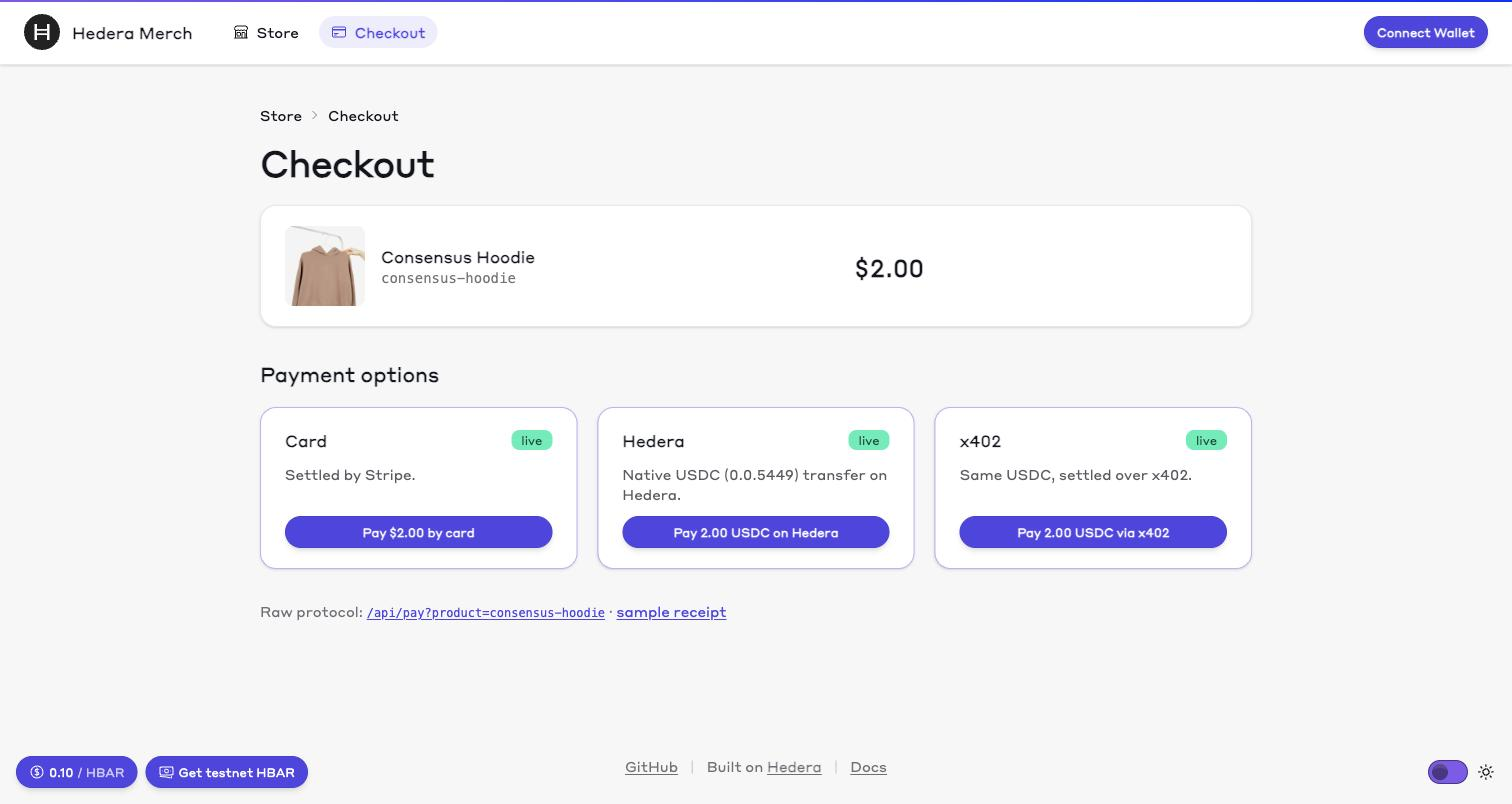
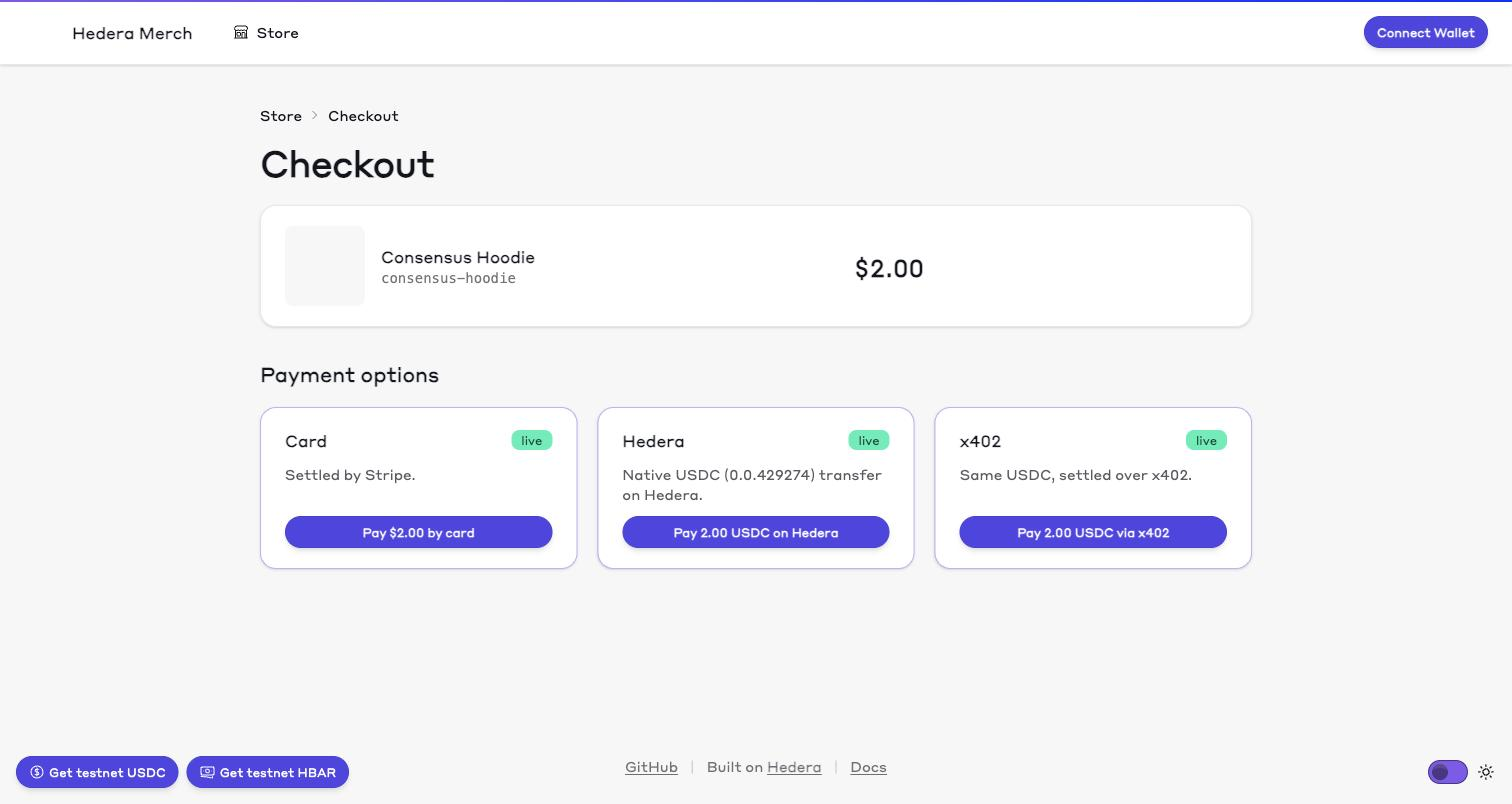
ui: checkout off the nav, USDC faucet in the footer, drop the protocol line
Three things a reader flagged, all of them the storefront talking to itself
rather than to a buyer.

Checkout was a nav entry next to Store. It is a step you reach from a product,
not a place to browse to — and visiting it directly lands you on whichever item
happens to be first in the catalogue, which is not a checkout anyone asked for.
Off the nav; the breadcrumb on /checkout is how you get back.

The footer advertised an HBAR spot price on a store that settles in USDC, with
the HBAR faucet as the only way to get funds. Replaced the price pill with a
"Get testnet USDC" link to Circle's faucet, which is where the token this store
charges in actually comes from. The Portal HBAR faucet stays next to it — HBAR
pays the transaction fees, so you need both.

Dropped "Raw protocol: /api/pay?product=… · sample receipt" from below the
payment cards. The endpoint is documented in the README and discoverable from
/openapi.json and /llms.txt; a buyer looking at three pay buttons does not need
a link to the wire format.

One trap avoided while doing it: the footer is a client component, and the
obvious way to put the token id in that tooltip is to import USDC_TOKEN_ID from
lib/mppx.ts — which is server-only and would have pulled the Hedera SDK and
Stripe into the browser bundle. The token id is also server config with no
NEXT_PUBLIC_ prefix, so the client cannot read it anyway. Tooltip says it
without naming the id.

Screenshots re-taken: both showed the old nav and the old footer.

diff --git a/packages/nextjs/components/Footer.tsx b/packages/nextjs/components/Footer.tsx
@@ -3,13 +3,12 @@ import { HederaPortalFaucet } from "@scaffold-hbar-ui/components";
 import { hedera } from "viem/chains";
 import { CurrencyDollarIcon } from "@heroicons/react/24/outline";
 import { SwitchTheme } from "~~/components/SwitchTheme";
-import { useFetchHbarPrice, useTargetNetwork } from "~~/hooks/scaffold-hbar";
+import { useTargetNetwork } from "~~/hooks/scaffold-hbar";
 
 /**
  * Site footer
  */
 export const Footer = () => {
-  const { price: nativeCurrencyPrice } = useFetchHbarPrice();
   const { targetNetwork } = useTargetNetwork();
   const isTestnet = targetNetwork.id !== hedera.id;
 
@@ -18,17 +17,23 @@ export const Footer = () => {
       <div>
         <div className="fixed flex justify-between items-center w-full z-10 p-4 bottom-0 left-0 pointer-events-none">
           <div className="flex flex-col md:flex-row gap-2 pointer-events-auto">
-            {nativeCurrencyPrice > 0 && (
-              <div>
-                {/* Labelled: an unexplained floating price pill reads as part of the checkout. */}
-                <div className="btn btn-primary btn-sm font-normal gap-1 cursor-auto" title="Current HBAR price in USD">
+            {isTestnet && (
+              <>
+                {/* The store settles in USDC, so the USDC faucet comes first. HBAR still pays
+                    the transaction fees, which is what the Portal faucet below is for. */}
+                <a
+                  href="https://faucet.circle.com"
+                  target="_blank"
+                  rel="noreferrer"
+                  className="btn btn-primary btn-sm font-normal gap-1"
+                  title="Circle's faucet — pick Hedera Testnet. Sends the USDC this store charges in."
+                >
                   <CurrencyDollarIcon className="h-4 w-4" />
-                  <span>{nativeCurrencyPrice.toFixed(2)}</span>
-                  <span className="opacity-70">/ HBAR</span>
-                </div>
-              </div>
+                  Get testnet USDC
+                </a>
+                <HederaPortalFaucet />
+              </>
             )}
-            {isTestnet && <HederaPortalFaucet />}
           </div>
           <SwitchTheme className="pointer-events-auto" />
         </div>

diff --git a/packages/nextjs/components/Header.tsx b/packages/nextjs/components/Header.tsx
@@ -4,7 +4,7 @@ import React, { useRef } from "react";
 import Image from "next/image";
 import Link from "next/link";
 import { usePathname } from "next/navigation";
-import { Bars3Icon, BuildingStorefrontIcon, CreditCardIcon } from "@heroicons/react/24/outline";
+import { Bars3Icon, BuildingStorefrontIcon } from "@heroicons/react/24/outline";
 import { WalletConnectButton } from "~~/components/scaffold-hbar";
 import { useOutsideClick } from "~~/hooks/scaffold-hbar";
 
@@ -14,16 +14,16 @@ type HeaderMenuLink = {
   icon?: React.ReactNode;
 };
 
+/**
+ * Checkout is deliberately absent: it is a step you reach from a product, not a place to
+ * browse to, and a nav entry to it lands you on whichever item happens to be first. The
+ * breadcrumb on `/checkout` is how you get back.
+ */
 export const menuLinks: HeaderMenuLink[] = [
   {
     label: "Store",
     href: "/",
     icon: <BuildingStorefrontIcon className="h-4 w-4" />,
-  },
-  {
-    label: "Checkout",
-    href: "/checkout",
-    icon: <CreditCardIcon className="h-4 w-4" />,
   },
 ];
 

diff --git a/packages/nextjs/app/checkout/page.tsx b/packages/nextjs/app/checkout/page.tsx
@@ -92,17 +92,6 @@ export default async function CheckoutPage({ searchParams }: CheckoutPageProps) 
             <PaymentOption key={option.label} {...option} />
           ))}
         </section>
-
-        <p className="text-sm text-base-content/60 mt-8 m-0">
-          Raw protocol:{" "}
-          <Link href={`/api/pay?product=${product.id}`} className="link link-primary font-mono text-xs">
-            /api/pay?product={product.id}
-          </Link>{" "}
-          ·{" "}
-          <Link href={`/receipt/${product.id}`} className="link link-primary">
-            sample receipt
-          </Link>
-        </p>
       </div>
     </div>
   );
